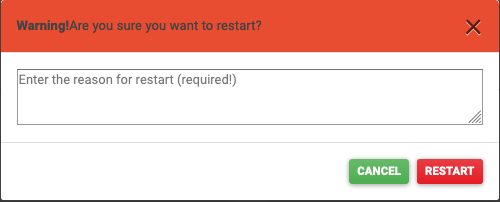
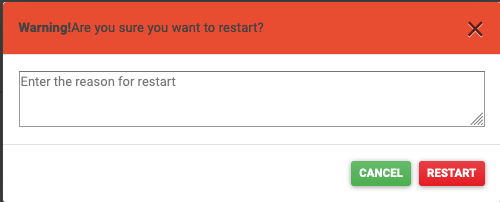
removed (required)

Changed region(s): [[0.0, 0.0, 1.0, 1.0], [0.93, 0.0891, 0.96, 0.1782]]

diff --git a/templates/stats.html b/templates/stats.html
@@ -36,12 +36,12 @@
         
         <!-- Modal body -->
         <div class="modal-body">
-          <textarea id="uptime-card-restart-reason" required placeholder= "Enter the reason for restart (required!)"style= "width:100%;"></textarea>
+          <textarea id="uptime-card-restart-reason" placeholder= "Enter the reason for restart"style= "width:100%;"></textarea>
         </div>
         
         <!-- Modal footer -->
         <div class="modal-footer">
-          <button type="button" class="btn btn-success btn-sm" data-dismiss="modal" style="background-color:#ccdbc1 !important; color: white;"><strong>Cancel</strong></button>
+          <button type="button" class="btn btn-success btn-sm" data-dismiss="modal" style="color: white;"><strong>Cancel</strong></button>
           <button type="submit" class="btn btn-danger btn-sm"><strong>Restart</strong></button>
         </div>
         
